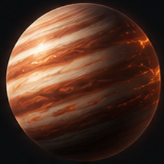
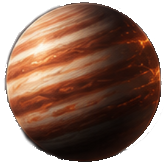
Updated: hot_gas_giant.png and index.html - improved png; Open image works again.

Changed region(s): [[0.0, 0.0, 1.0, 1.0]]

diff --git a/index.html b/index.html
@@ -1055,6 +1055,12 @@ async function exportCurrentView(mode){
   if(mode==="open"){
     const clone = source.cloneNode(true);
     clone.setAttribute("xmlns","http://www.w3.org/2000/svg");
+    clone.querySelectorAll("image").forEach(img => {
+      const href = img.getAttribute("href");
+      if(href && !href.startsWith("data:") && !href.startsWith("http") && !href.startsWith("blob:")) {
+        img.setAttribute("href", new URL(href, window.location.href).href);
+      }
+    });
     const data = new XMLSerializer().serializeToString(clone);
     const blob = new Blob([data], {type:"image/svg+xml"});
     const url = URL.createObjectURL(blob);